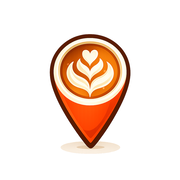
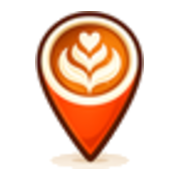
chore(app): refresh branding config

diff --git a/src/components/layout/Footer.tsx b/src/components/layout/Footer.tsx
@@ -67,11 +67,11 @@ export default function Footer() {
           <div className="relative sm:hidden">
             <div className="flex items-center gap-3">
               <Image
-                src="/image/logo-icon.png"
+                src="/image/logo-icon-transparent.png"
                 alt="Cafe Maps"
                 width={34}
                 height={34}
-                className="h-[34px] w-[34px] shrink-0 rounded-[12px] object-cover shadow-[var(--footer-logo-shadow)] ring-1 ring-[var(--footer-logo-ring)]"
+                className="h-10 w-10 shrink-0 object-contain"
                 loading="lazy"
               />
               <div className="min-w-0">
@@ -120,11 +120,11 @@ export default function Footer() {
             <div>
               <Link href="/" className="group flex w-fit items-center gap-3" aria-label="Cafe Maps">
                 <Image
-                  src="/image/logo-icon.png"
+                  src="/image/logo-icon-transparent.png"
                   alt="Cafe Maps"
                   width={38}
                   height={38}
-                  className="h-[38px] w-[38px] shrink-0 rounded-[13px] object-cover shadow-[var(--footer-logo-shadow)] ring-1 ring-[var(--footer-logo-ring)]"
+                  className="h-11 w-11 shrink-0 object-contain"
                   loading="lazy"
                 />
                 <span className="font-display text-lg font-extrabold text-[var(--foreground)] transition group-hover:text-[var(--accent-hover)]">

diff --git a/src/components/layout/Header.tsx b/src/components/layout/Header.tsx
@@ -72,14 +72,14 @@ export default function Header() {
             className="group flex min-w-0 shrink-0 items-center gap-1.5 rounded-full pr-0.5 pl-1 transition-colors outline-none focus-visible:ring-2 focus-visible:ring-[var(--header-focus-ring)] focus-visible:ring-offset-2 focus-visible:ring-offset-transparent min-[390px]:gap-2 min-[390px]:pr-1 min-[390px]:pl-1.5"
             aria-label="Cafe Maps"
           >
-            <span className="flex size-9 shrink-0 items-center justify-center overflow-hidden rounded-full bg-[var(--header-logo-bg)] shadow-[var(--header-logo-shadow)] min-[390px]:size-10">
+            <span className="flex size-9 shrink-0 items-center justify-center min-[390px]:size-10">
               <Image
-                src="/image/logo-icon.png"
+                src="/image/logo-icon-transparent.png"
                 alt=""
                 width={34}
                 height={34}
                 priority
-                className="size-[31px] min-[390px]:size-[34px]"
+                className="size-9 min-[390px]:size-10"
               />
             </span>
             <span className="hidden min-w-0 flex-col leading-none sm:flex">

diff --git a/src/app/[locale]/(auth)/AuthShell.tsx b/src/app/[locale]/(auth)/AuthShell.tsx
@@ -94,8 +94,8 @@ export default function AuthShell({ children }: AuthShellProps) {
               className="group inline-flex min-h-10 min-w-0 items-center gap-2 rounded-full outline-none focus-visible:ring-2 focus-visible:ring-[var(--accent)] focus-visible:ring-offset-2 focus-visible:ring-offset-[#fffaf2] dark:focus-visible:ring-offset-[#21170f]"
               aria-label="Cafe Maps"
             >
-              <span className="flex size-10 shrink-0 items-center justify-center overflow-hidden rounded-full bg-white shadow-[0_8px_22px_rgba(44,26,14,0.14)] dark:bg-[#fff7e8]">
-                <Image src="/image/logo-icon.png" alt="" width={34} height={34} loading="lazy" />
+              <span className="flex size-11 shrink-0 items-center justify-center">
+                <Image src="/image/logo-icon-transparent.png" alt="" width={42} height={42} loading="lazy" />
               </span>
               <span className="min-w-0 text-sm font-black text-[var(--foreground)] dark:text-[#fff7e8]">
                 {t("brand")}

diff --git a/next.config.ts b/next.config.ts
@@ -72,7 +72,7 @@ const nextConfig: NextConfig = {
     return config;
   },
   images: {
-    qualities: [48, 58, 75, 85, 90],
+    qualities: [48, 58, 75, 85, 88, 90],
     remotePatterns: [
       {
         protocol: "https",
@@ -92,6 +92,9 @@ const nextConfig: NextConfig = {
         hostname: "lh3.googleusercontent.com",
       },
     ],
+  },
+  logging: {
+    browserToTerminal: false,
   },
   allowedDevOrigins: [
     "192.168.2.89:3000",

diff --git a/src/app/layout.tsx b/src/app/layout.tsx
@@ -98,7 +98,7 @@ export default function RootLayout({ children }: { children: React.ReactNode }) 
       suppressHydrationWarning
       className={cn("h-full", plusJakarta.variable, lora.variable)}
     >
-      <body className="flex min-h-full flex-col antialiased">
+      <body className="flex min-h-full flex-col antialiased" suppressHydrationWarning>
         {children}
         <GoogleAnalyticsProvider />
         <Analytics />
